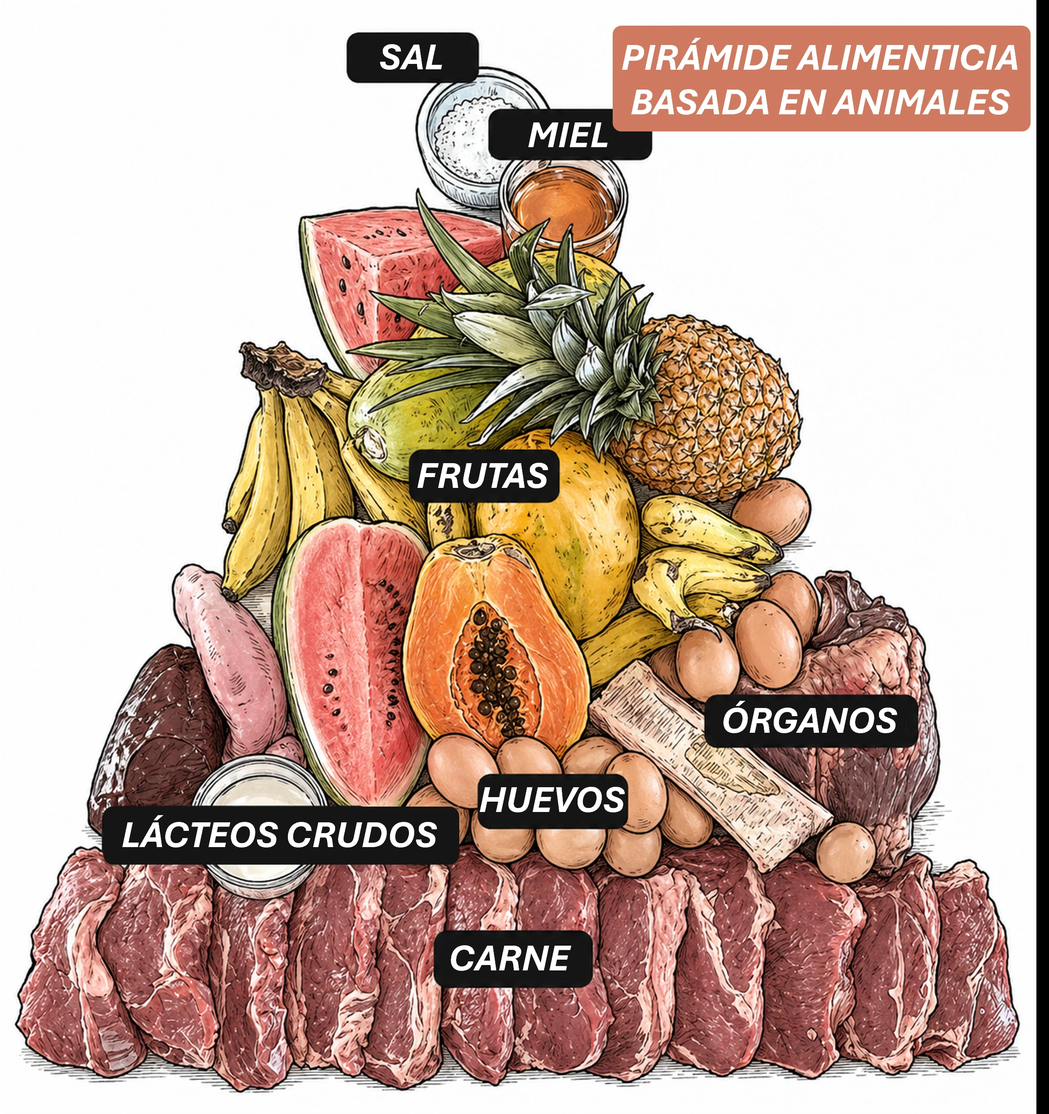
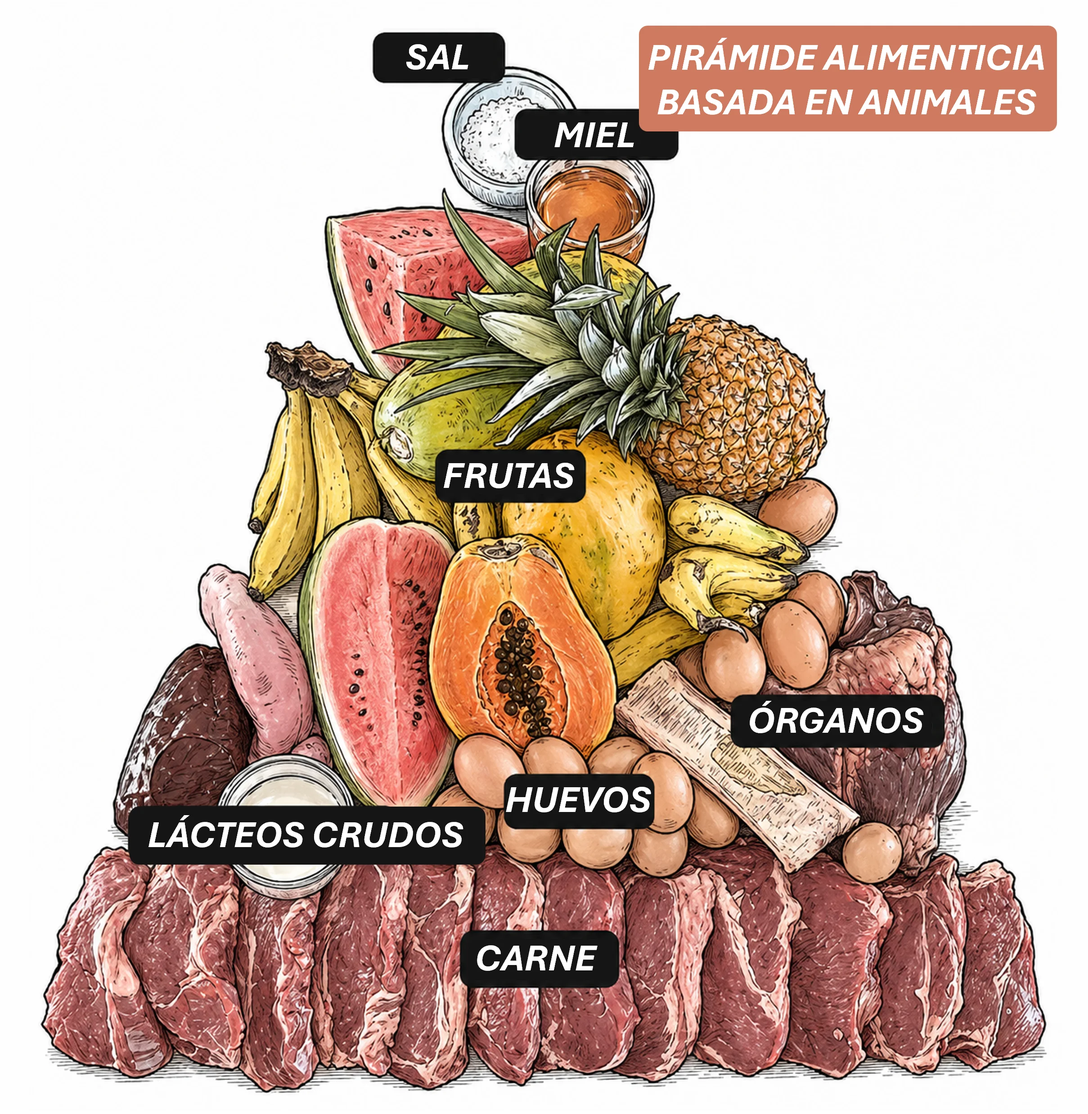
Remove extra WeSpark button; update ES pyramid and brain webp images

diff --git a/index.html b/index.html
@@ -835,8 +835,6 @@
             Follow @nelsoninno
           </a>
           <a class="bio-link" href="https://nelsoninno.com" target="_blank" rel="noopener" style="margin-top:0;">
-          </a>
-          <a class="bio-link" href="https://nelsoninno.com" target="_blank" rel="noopener" style="margin-top:0;">
             Read my full biography →
           </a>
         </div>
